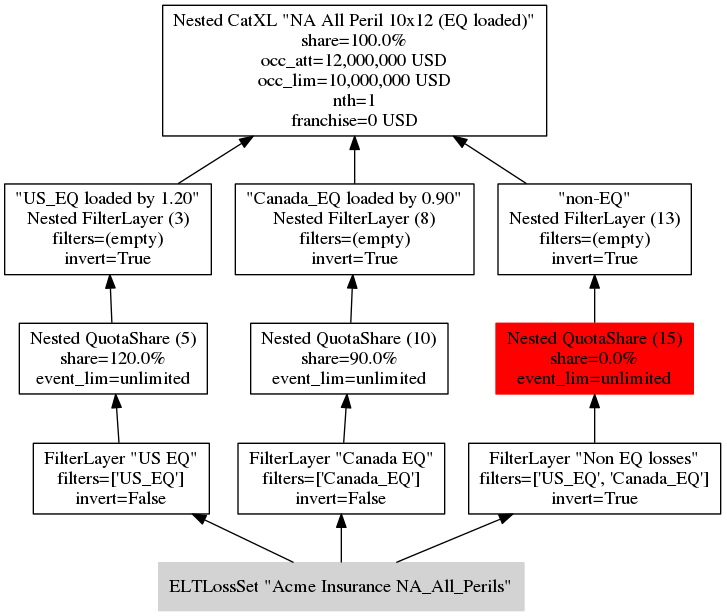
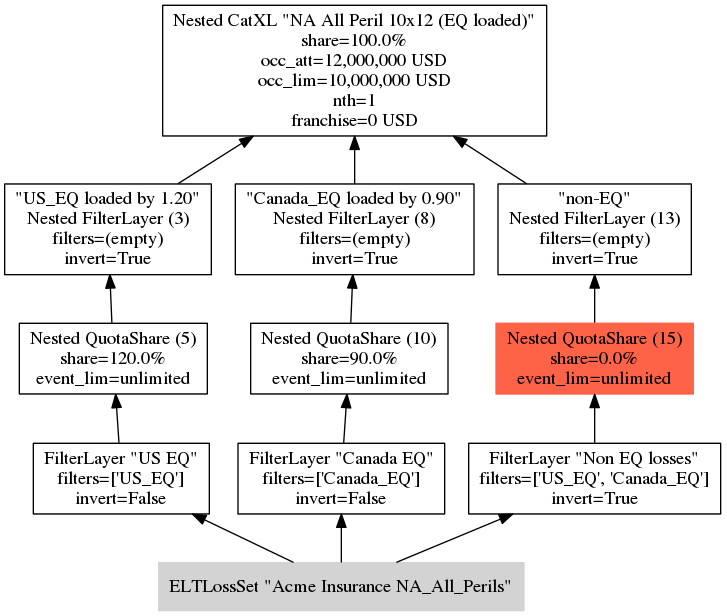
Updated warning node color to tomato

Changed region(s): [[0.6657, 0.5244, 0.9684, 0.6477]]

diff --git a/analyzere_extras/visualizations.py b/analyzere_extras/visualizations.py
@@ -234,7 +234,7 @@ class LayerViewDigraph(object):
                              color='black')
             # color nodes with 'warnings' as red iff configured
             if warning and self._warnings:
-                self._graph.attr('node', color='red', fillcolor='red')
+                self._graph.attr('node', color='tomato', fillcolor='tomato')
 
             self._graph.node(node_hash, label=name)
             for ls in l.loss_sets:
